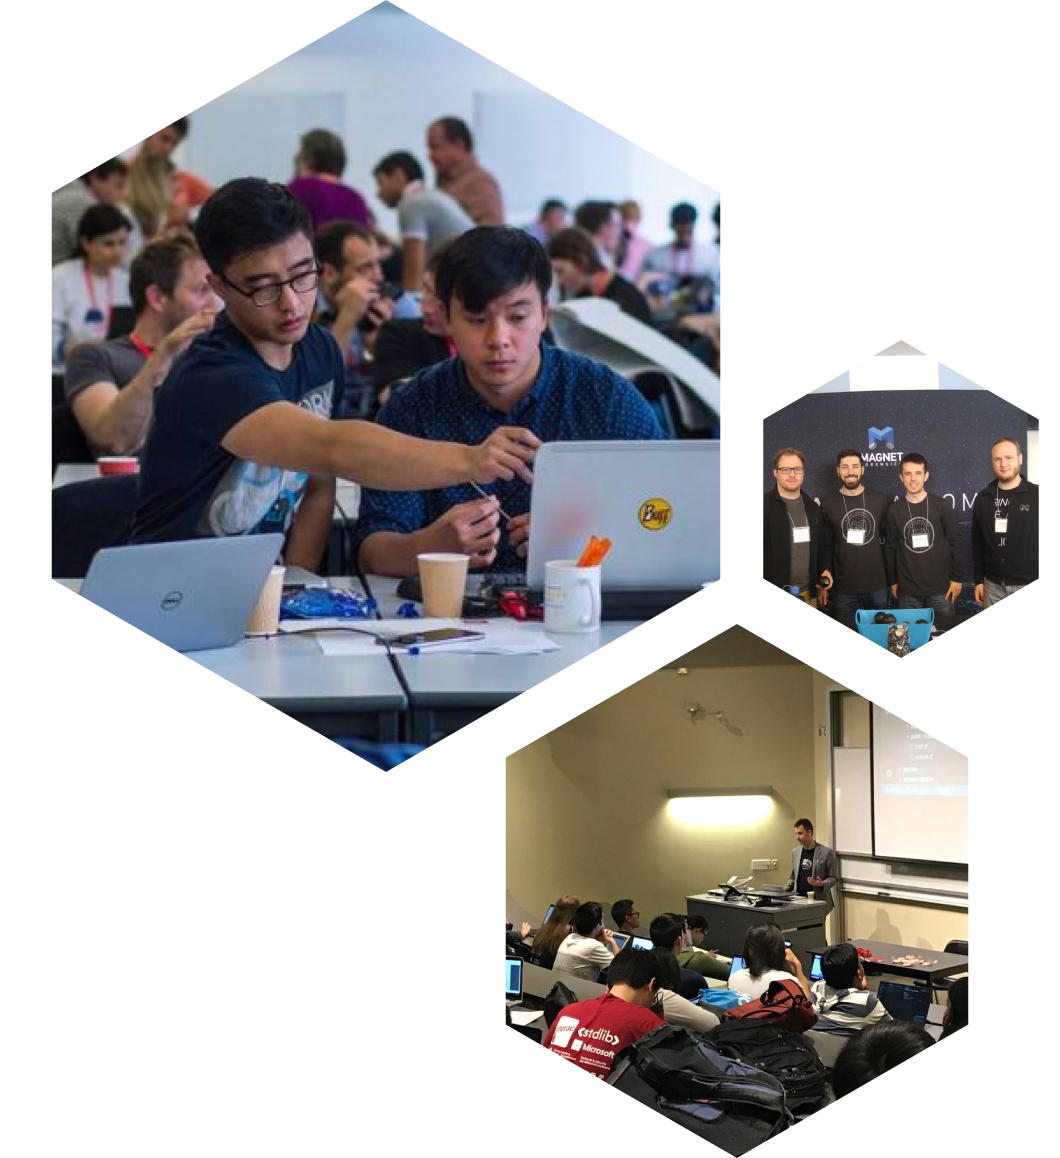
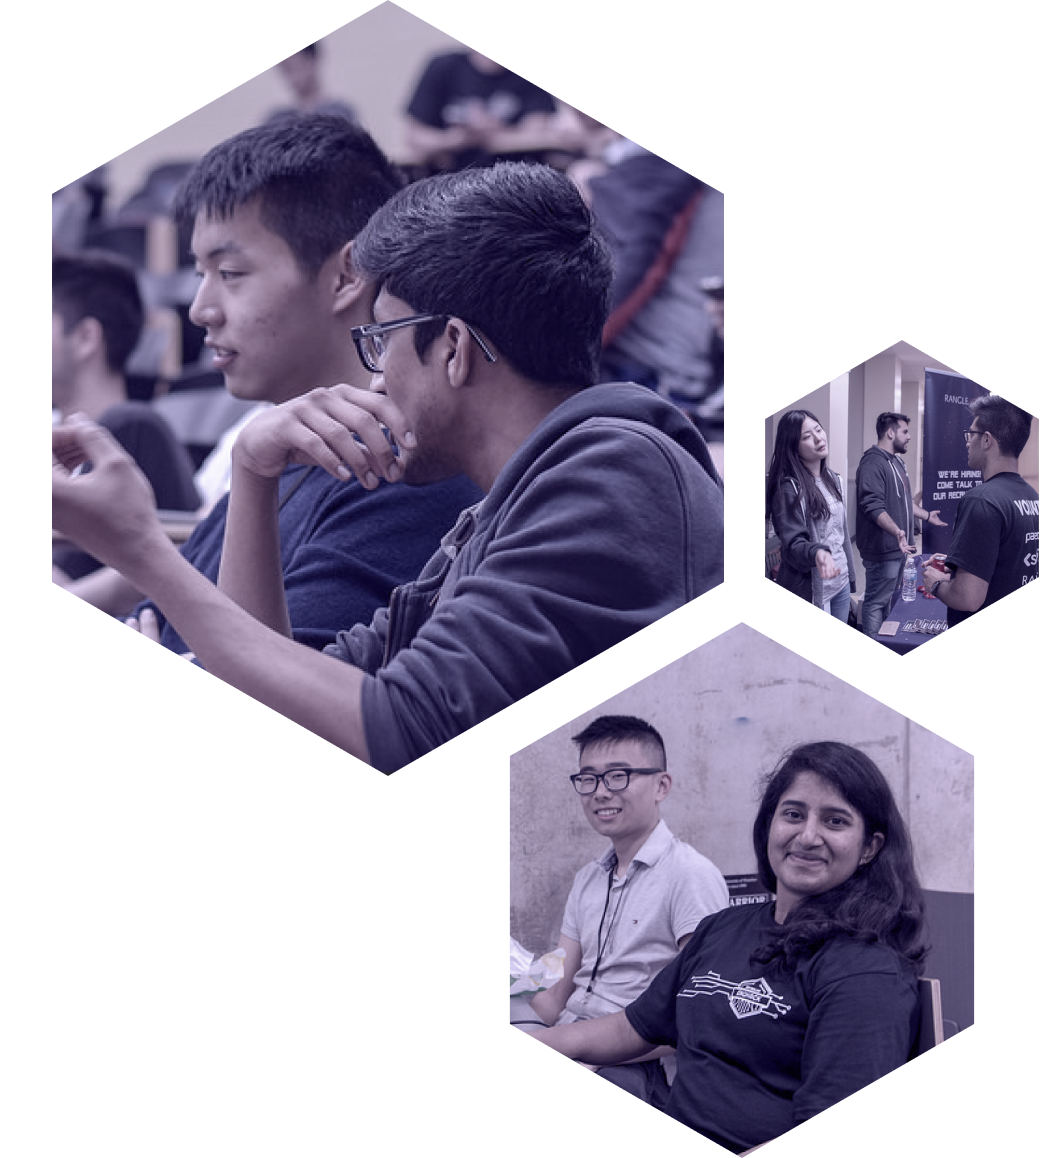
Replace placeholder images with official images in about page

diff --git a/index.html b/index.html
@@ -37,12 +37,12 @@
       </div>
       <div class="container">
         <div class="row about-page">
-          <div class="col-12 col-lg-6 order-lg-1 order-2">
+          <div class="col-12 col-lg-6">
             <h1>Engaging. Engenius. Engineering</h1>
             <h3 class="mt-4 mb-4">Engineering isn’t all trains, bridges, and matrix multiplication. It’s creating and innovating for the better. Contrary to our event name, you don’t need to be an engineer to come make cool things at Enghack.</h3>
             <span>Still have questions? Check out our <a href="#">FAQs</a></span>
           </div>
-          <div class="col-12 col-lg-6 order-lg-2 order-1" style="margin-top: -7.5%">
+          <div class="col-12 col-lg-6" style="margin-top: 7.5%">
             <img id="about-image-desktop" src="assets/about_desktop.png"/>
             <img id="about-image-mobile" src="assets/about_mobile.png"/>
           </div>
